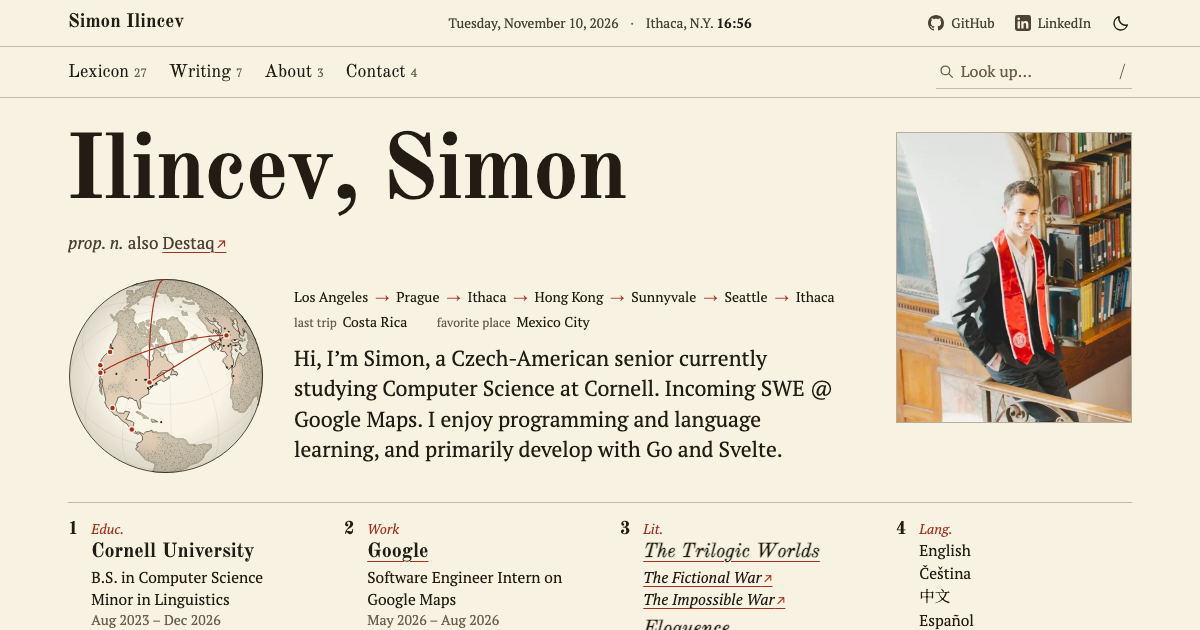
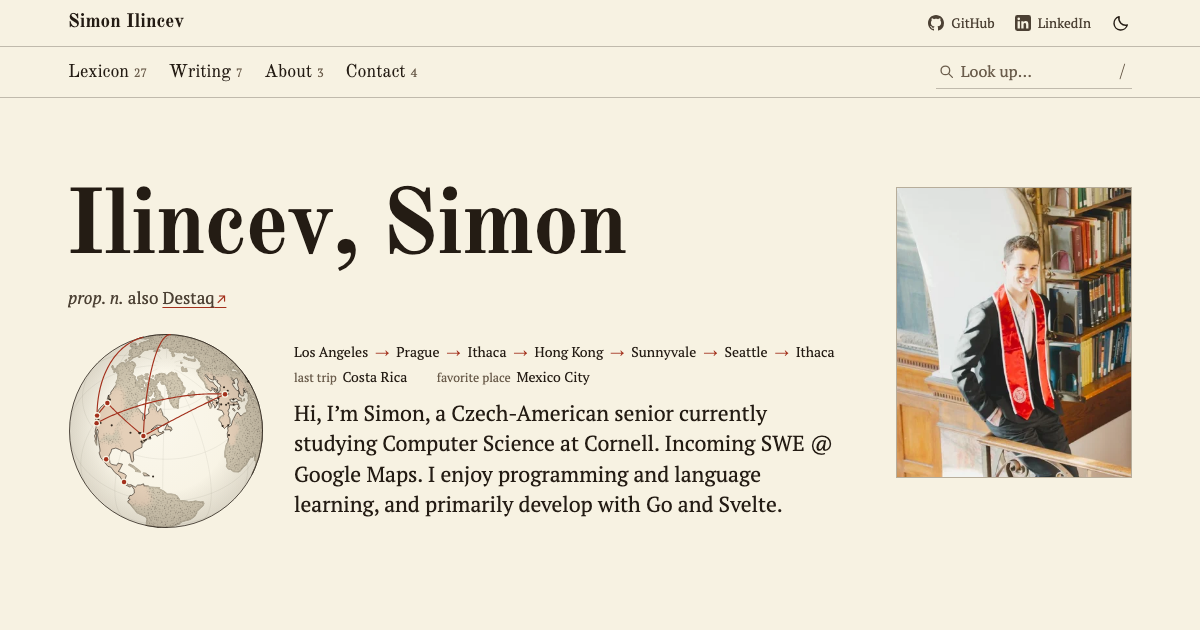
fix: centre short posts, trim the Waymark entry, add share cards
- Posts without a contents list are one centred column, so the header
  picture is no wider than the text under it
- The Waymark entry keeps its one wide picture; the row of three is gone
- The home page description matches the hero sentence, and its share
  image is a clean 1200x630 capture with no date in it
- Each post shares a 1200x630 card cut from its header picture, with
  width, height and alt text; _tools/post-headers.py makes them

diff --git a/index.html b/index.html
@@ -4,17 +4,19 @@
 <meta charset="utf-8">
 <meta name="viewport" content="width=device-width, initial-scale=1">
 <title>Simon Ilincev</title>
-<meta name="description" content="Hi, I’m Simon, a Czech-American senior currently studying Computer Science at Cornell. I enjoy programming and language learning, and primarily develop with Go and Svelte.">
+<meta name="description" content="Hi, I’m Simon, a Czech-American senior currently studying Computer Science at Cornell. Incoming SWE @ Google Maps. I enjoy programming and language learning, and primarily develop with Go and Svelte.">
 <meta name="theme-color" content="#f7f2e2">
 <link rel="canonical" href="https://simonilincev.com/">
 <meta property="og:type" content="website">
 <meta property="og:site_name" content="Simon Ilincev">
 <meta property="og:title" content="Simon Ilincev">
-<meta property="og:description" content="Hi, I’m Simon, a Czech-American senior currently studying Computer Science at Cornell. I enjoy programming and language learning, and primarily develop with Go and Svelte.">
+<meta property="og:description" content="Hi, I’m Simon, a Czech-American senior currently studying Computer Science at Cornell. Incoming SWE @ Google Maps. I enjoy programming and language learning, and primarily develop with Go and Svelte.">
 <meta property="og:url" content="https://simonilincev.com/">
 <meta property="og:image" content="https://simonilincev.com/assets/lexicon/og.png">
 <meta property="og:image:width" content="1200">
 <meta property="og:image:height" content="630">
+<meta property="og:image:alt" content="The top of simonilincev.com: his name as a dictionary headword, a globe with the places he has lived, and his portrait">
+<meta property="og:locale" content="en_US">
 <meta name="twitter:card" content="summary_large_image">
 <link rel="alternate" type="application/atom+xml" title="Simon Ilincev" href="/feed.xml">
 <script type="application/ld+json">{"@context":"https://schema.org","@type":"Person","name":"Simon Ilincev","url":"https://simonilincev.com/","image":"https://simonilincev.com/assets/lexicon/img/portrait-540.webp","sameAs":["https://github.com/Destaq","https://www.linkedin.com/in/simon-ilincev/"]}</script>
@@ -501,11 +503,6 @@
           </div>
           <div class="e-fig wm">
             <figure class="fig"><a class="zm" href="/assets/lexicon/img/waymark-2.webp"><img src="/assets/lexicon/img/waymark-2.webp" width="1400" height="933" alt="Waymark on three iPhones" loading="lazy" decoding="async"></a></figure>
-            <div class="wm-r">
-              <figure class="fig" style="--ar:.46"><a class="zm" href="/assets/lexicon/img/waymark-3.webp"><img src="/assets/lexicon/img/waymark-3.webp" width="644" height="1400" alt="Waymark map tab" loading="lazy" decoding="async"></a></figure>
-              <figure class="fig" style="--ar:.46"><a class="zm" href="/assets/lexicon/img/waymark-4.webp"><img src="/assets/lexicon/img/waymark-4.webp" width="644" height="1400" alt="Waymark journey replay" loading="lazy" decoding="async"></a></figure>
-              <figure class="fig fig--mat" style="--ar:.773"><a class="zm" href="/assets/lexicon/img/waymark-6.webp"><img src="/assets/lexicon/img/waymark-6-520.webp" srcset="/assets/lexicon/img/waymark-6-520.webp 520w, /assets/lexicon/img/waymark-6.webp 1082w" sizes="(min-width: 861px) 231px, 46vw" width="1082" height="1400" alt="Waymark print flyer" loading="lazy" decoding="async"></a></figure>
-            </div>
           </div>
         </div>
       </article>

diff --git a/_layouts/single.html b/_layouts/single.html
@@ -5,10 +5,17 @@ layout: default
   A post, or a long page such as the life calendar tutorial.
   Front matter read here: title, date, excerpt, header.image (+ image_description, caption), toc, toc_label, tags, comments.
   _data/hdr.yml lists the smaller copies of the header pictures that _tools/post-headers.py makes; a picture not in it is used as is.
+  An SVG is treated as a logo and set on a light plate, unless hdr.yml marks it `full` (a poster with its own background).
 {%- endcomment -%}
 {%- assign words = content | strip_html | number_of_words -%}
 {%- assign mins = words | plus: 199 | divided_by: 200 -%}
-<article class="post">
+{%- comment -%} The contents list needs three headings (pages.js builds it from h2 and h3). Without it the post is one centred column. {%- endcomment -%}
+{%- assign h2s = content | split: '<h2 id=' | size | minus: 1 -%}
+{%- assign h3s = content | split: '<h3 id=' | size | minus: 1 -%}
+{%- assign heads = h2s | plus: h3s -%}
+{%- assign rail = false -%}
+{%- if page.toc and heads >= 3 %}{% assign rail = true %}{% endif -%}
+<article class="post{% unless rail %} post--solo{% endunless %}">
   <header class="post-hd">
     <h1 class="post-h" id="post-h">{{ page.title | markdownify | remove: "<p>" | remove: "</p>" | strip }}</h1>
     {%- if page.date %}
@@ -23,8 +30,10 @@ layout: default
     {%- assign base = img | split: "/" | last | split: "." | first -%}
     {%- assign small = site.data.hdr[base] -%}
     {%- assign ext = img | split: "." | last | downcase %}
-  <figure class="post-fig{% if ext == 'svg' %} post-fig--mark{% endif %}">
-    {%- if small %}
+  <figure class="post-fig{% if ext == 'svg' %}{% unless small.full %} post-fig--mark{% endunless %}{% endif %}">
+    {%- if small.full %}
+    <img src="{{ img }}" width="{{ small.w }}" height="{{ small.h }}" alt="{{ page.header.image_description | default: '' | escape_once }}" fetchpriority="high" decoding="async">
+    {%- elsif small %}
     <img src="/assets/lexicon/hdr/{{ base }}.webp" width="{{ small.w }}" height="{{ small.h }}" alt="{{ page.header.image_description | default: '' | escape_once }}" fetchpriority="high" decoding="async">
     {%- else %}
     <img src="{{ img }}" alt="{{ page.header.image_description | default: '' | escape_once }}" fetchpriority="high" decoding="async">
@@ -36,7 +45,7 @@ layout: default
   {%- endif %}
 
   <div class="post-b">
-    {%- if page.toc %}
+    {%- if rail %}
     <details class="toc" id="toc" hidden>
       <summary>{{ page.toc_label | default: "Contents" }}</summary>
       <ol id="toc-l"></ol>

diff --git a/_layouts/default.html b/_layouts/default.html
@@ -3,12 +3,29 @@
   The frame of every page except the home page (/index.html is a static file with its own copy of this head and masthead).
 {%- endcomment -%}
 {%- assign desc = page.excerpt | default: site.description | strip_html | strip_newlines | strip | truncate: 300 | escape_once -%}
+{%- comment -%}
+  The share picture: the site's own (a capture of the top of the home page) unless the post has a header picture.
+  _tools/post-headers.py cuts a JPEG card from each header picture and lists it in _data/hdr.yml.
+{%- endcomment -%}
 {%- assign og = "/assets/lexicon/og.png" | absolute_url -%}
+{%- assign og_w = 1200 -%}
+{%- assign og_h = 630 -%}
+{%- assign og_alt = "The top of simonilincev.com: his name as a dictionary headword, a globe with the places he has lived, and his portrait" -%}
 {%- if page.header.image -%}
   {%- assign ext = page.header.image | split: "." | last | downcase -%}
-  {%- unless ext == "svg" -%}
+  {%- assign base = page.header.image | split: "/" | last | split: "." | first -%}
+  {%- assign card = site.data.hdr[base].card -%}
+  {%- if card and page.header.image contains "://" -%}{%- assign card = nil -%}{%- endif -%}
+  {%- if card -%}
+    {%- assign og = "/assets/lexicon/hdr/" | append: base | append: "-card.jpg" | absolute_url -%}
+    {%- assign og_w = card.w -%}
+    {%- assign og_h = card.h -%}
+    {%- assign og_alt = page.header.image_description -%}
+  {%- elsif ext != "svg" -%}
     {%- if page.header.image contains "://" -%}{%- assign og = page.header.image -%}{%- else -%}{%- assign og = page.header.image | absolute_url -%}{%- endif -%}
-  {%- endunless -%}
+    {%- assign og_w = nil -%}
+    {%- assign og_alt = page.header.image_description -%}
+  {%- endif -%}
 {%- endif %}
 <html lang="en" data-theme="light">
 <head>
@@ -30,6 +47,14 @@
 <meta property="og:url" content="{{ page.url | replace: 'index.html', '' | absolute_url }}">
 {%- endunless %}
 <meta property="og:image" content="{{ og }}">
+{%- if og_w %}
+<meta property="og:image:width" content="{{ og_w }}">
+<meta property="og:image:height" content="{{ og_h }}">
+{%- endif %}
+{%- if og_alt and og_alt != "" %}
+<meta property="og:image:alt" content="{{ og_alt | strip_html | escape_once }}">
+{%- endif %}
+<meta property="og:locale" content="en_US">
 {%- if page.date %}
 <meta property="article:published_time" content="{{ page.date | date_to_xmlschema }}">
 {%- endif %}

diff --git a/assets/lexicon/pages.css b/assets/lexicon/pages.css
@@ -20,6 +20,10 @@
 .post-lede { margin-top: 12px; max-width: 34em; font-size: 21px; line-height: 1.42; color: var(--ink-2); text-wrap: pretty; }
 .post-fig { margin-top: 28px; }
 .post-fig img { display: block; width: 100%; height: auto; max-height: min(58vh, 480px); object-fit: cover; border: 1px solid var(--rule-soft); border-radius: 2px; background: var(--paper-hi); }
+/* no contents rail: one centred column, so the picture is no wider than the text under it */
+.post--solo { max-width: 680px; margin-inline: auto; }
+.post--solo .post-b { display: block; }
+.post--solo .post-h { font-size: clamp(38px, 5.4vw, 56px); }
 .post-fig--mark img { object-fit: contain; padding: 22px; max-height: 300px; background: #fbf8ee; } /* a logo, not a photograph: it keeps its light plate in both themes */
 .post-fig figcaption, .prose figcaption { margin-top: 6px; font-size: 13.5px; line-height: 1.35; color: var(--ink-3); }
 .post-b { display: grid; grid-template-columns: minmax(0, 680px) 232px; justify-content: space-between; gap: 0 56px; align-items: start; margin-top: 30px; padding-top: 26px; border-top: 3px double var(--rule); }
@@ -168,6 +172,7 @@
 .lost-go { margin-top: 22px; font-size: 18px; }
 
 @media (max-width: 1060px) {
+  .post { max-width: 680px; margin-inline: auto; }
   .post-b { display: block; }
   .prose, .post-lede { max-width: 680px; }
   .toc { position: static; max-height: none; margin: 0 0 24px; max-width: 680px; border: 1px solid var(--rule); border-radius: 3px; background: var(--paper-hi); }

diff --git a/assets/lexicon/style.css b/assets/lexicon/style.css
@@ -295,8 +295,6 @@ mark.hl { background: none; color: var(--red); }
 .e-cols--run > .fig { margin: 10px 0 8px; }
 .strip-r { display: grid; grid-template-columns: repeat(4, 1fr); gap: 8px; }
 .wm { display: grid; gap: 10px; }
-.wm-r { display: flex; gap: 10px; }
-.wm-r .fig { flex: var(--ar, 1) 1 0; min-width: 0; }
 .entry--text .senses--roles { display: grid; grid-template-columns: minmax(0, 1fr) minmax(0, 1.2fr); gap: 0 var(--gap); margin-top: 10px; }
 .entry--text .senses--roles > li { margin-bottom: 0; }
 /* a lone minor entry between two major ones runs over both columns */

diff --git a/_tools/post-headers.py b/_tools/post-headers.py
@@ -2,14 +2,21 @@
 """Make the smaller copies of the post header pictures.
 
 Reads `header.image` from the front matter of everything in _posts and _pages,
-writes assets/lexicon/hdr/<name>.webp (at most 1600px wide) and lists the
-results in _data/hdr.yml, which _layouts/single.html reads.
+writes assets/lexicon/hdr/<name>.webp (at most 1600px wide) for the page and
+assets/lexicon/hdr/<name>-card.jpg (1200 x 630 where the picture allows, cut from
+the middle unless CARD_HOW says otherwise) for link previews, and lists the results in _data/hdr.yml, which
+_layouts/single.html and _layouts/default.html read.
 
 Run it from anywhere after adding a post with a new header picture:
 
     python3 _tools/post-headers.py
 
-Needs `cwebp` (brew install webp). SVG and remote pictures are left alone.
+Needs `cwebp` (brew install webp). The cards also need ImageMagick, and
+`rsvg-convert` for an SVG poster; without them the cards are skipped and the post
+shares its original picture. Remote pictures are left alone. An SVG is not
+copied; one whose first shape is a rectangle covering the whole canvas (a poster
+with its own background, not a logo) is listed as `full` so the layout shows it
+edge to edge instead of on a logo plate.
 """
 import pathlib
 import re
@@ -21,6 +28,13 @@ ROOT = pathlib.Path(__file__).resolve().parent.parent
 OUT = ROOT / "assets" / "lexicon" / "hdr"
 DATA = ROOT / "_data" / "hdr.yml"
 MAX_W = 1600
+CARD = (1200, 630)
+# Cards are cut from the middle unless listed here: ("cut", <ImageMagick gravity>) keeps another part of the
+# picture; ("fit", <colour>) keeps all of a very wide picture and fills above and below it with that colour.
+CARD_HOW = {
+    "cool_timer": ("cut", "east"),
+    "pack_offers": ("fit", "white"),
+}
 RASTER = {".jpg", ".jpeg", ".png"}
 
 
@@ -54,15 +68,84 @@ def source_width(path):
     return int(m.group(1)) if m else 0
 
 
+def dims(path):
+    out = subprocess.run(["magick", "identify", "-format", "%w %h", f"{path}[0]"], capture_output=True, text=True).stdout
+    w, h = out.split()
+    return int(w), int(h)
+
+
+def card(src, name):
+    """Cut the link-preview picture from the middle of `src`. Returns its (w, h), or None if it could not be made."""
+    if not shutil.which("magick"):
+        return None
+    tmp = None
+    if src.suffix.lower() == ".svg":
+        if not shutil.which("rsvg-convert"):
+            return None
+        tmp = OUT / (name + "-card.tmp.png")
+        subprocess.run(["rsvg-convert", "-h", str(CARD[1]), str(src), "-o", str(tmp)], check=True)
+        src = tmp
+    how, arg = CARD_HOW.get(name, ("cut", "center"))
+    dst = OUT / (name + "-card.jpg")
+    save = ["-strip", "-sampling-factor", "4:2:0", "-interlace", "Plane", "-quality", "84", str(dst)]
+    sw, sh = dims(src)
+    if how == "fit":
+        w = min(CARD[0], sw)
+        h = round(w * CARD[1] / CARD[0])
+        subprocess.run(["magick", f"{src}[0]", "-auto-orient", "-background", arg, "-alpha", "remove",
+                        "-resize", f"{w}x{h}>", "-gravity", "center", "-extent", f"{w}x{h}", *save], check=True)
+        if tmp:
+            tmp.unlink()
+        return dims(dst)
+    # never enlarge: a small picture gives a smaller card of the same shape
+    scale = min(1, max(CARD[0] / sw, CARD[1] / sh))
+    w = min(CARD[0], round(sw * scale))
+    h = round(w * CARD[1] / CARD[0])
+    if h > round(sh * scale):
+        h = round(sh * scale)
+        w = round(h * CARD[0] / CARD[1])
+    subprocess.run(["magick", f"{src}[0]", "-auto-orient", "-background", "white", "-alpha", "remove",
+                    "-resize", f"{w}x{h}^", "-gravity", arg, "-extent", f"{w}x{h}", *save], check=True)
+    if tmp:
+        tmp.unlink()
+    return dims(dst)
+
+
+def full_bleed(path):
+    """(width, height) if the SVG opens with a rectangle covering its whole canvas, else None."""
+    text = path.read_text(encoding="utf-8", errors="replace")
+    root = re.search(r"<svg\b[^>]*>", text)
+    if not root:
+        return None
+    w = re.search(r'\bwidth="(\d+)(?:px)?"', root.group(0))
+    h = re.search(r'\bheight="(\d+)(?:px)?"', root.group(0))
+    first = re.search(r"<(rect|path|circle|ellipse|polygon|g|image|use)\b[^>]*>", text[root.end():])
+    if not (w and h and first and first.group(1) == "rect"):
+        return None
+    rw = re.search(r'\bwidth="(\d+)"', first.group(0))
+    rh = re.search(r'\bheight="(\d+)"', first.group(0))
+    if rw and rh and rw.group(1) == w.group(1) and rh.group(1) == h.group(1) and not re.search(r'\b[xy]="[1-9]', first.group(0)):
+        return int(w.group(1)), int(h.group(1))
+    return None
+
+
 def main():
     if not shutil.which("cwebp"):
         sys.exit("cwebp not found (brew install webp)")
     OUT.mkdir(parents=True, exist_ok=True)
     rows = []
+    svgs = []
     for img in header_images():
         if "://" in img:
             continue
         src = ROOT / img.lstrip("/")
+        if src.suffix.lower() == ".svg" and src.exists():
+            box = full_bleed(src)
+            if box:
+                name = src.name.split(".")[0]
+                svgs.append((name, *box, card(src, name)))
+                print(f"{src.name:36} full-bleed SVG, used as is  {box[0]}x{box[1]}")
+            continue
         if src.suffix.lower() not in RASTER or not src.exists():
             continue
         dst = OUT / (src.name.split(".")[0] + ".webp")
@@ -71,10 +154,12 @@ def main():
             cmd += ["-resize", str(MAX_W), "0"]
         subprocess.run(cmd + [str(src), "-o", str(dst)], check=True)
         w, h = size(dst)
-        rows.append((dst.stem, w, h))
+        rows.append((dst.stem, w, h, card(src, dst.stem)))
         print(f"{src.name:36} {src.stat().st_size // 1024:>5} KB -> {dst.stat().st_size // 1024:>4} KB  {w}x{h}")
     lines = ["# Written by _tools/post-headers.py; do not edit by hand."]
-    lines += [f"{name}: {{ w: {w}, h: {h} }}" for name, w, h in sorted(rows)]
+    share = lambda c: f", card: {{ w: {c[0]}, h: {c[1]} }}" if c else ""
+    lines += [f"{name}: {{ w: {w}, h: {h}{share(c)} }}" for name, w, h, c in sorted(rows)]
+    lines += [f"{name}: {{ w: {w}, h: {h}, full: true{share(c)} }}" for name, w, h, c in sorted(svgs)]
     DATA.write_text("\n".join(lines) + "\n", encoding="utf-8")
 
 
